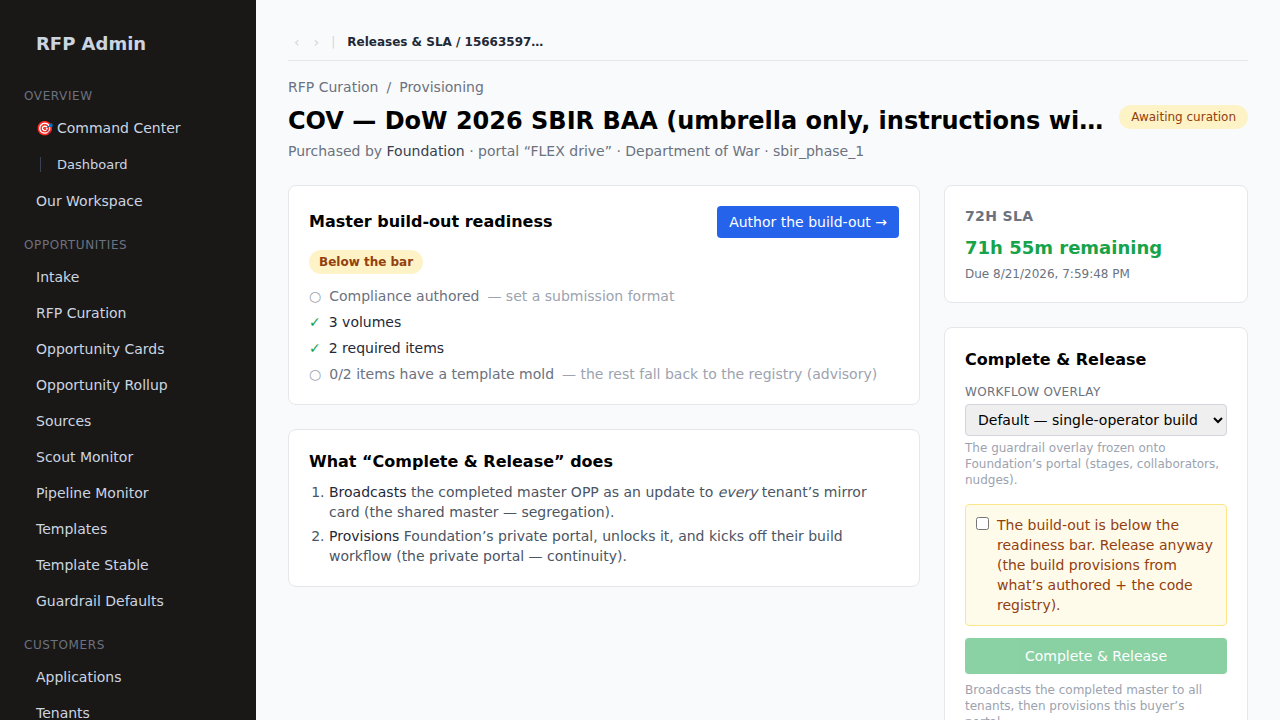
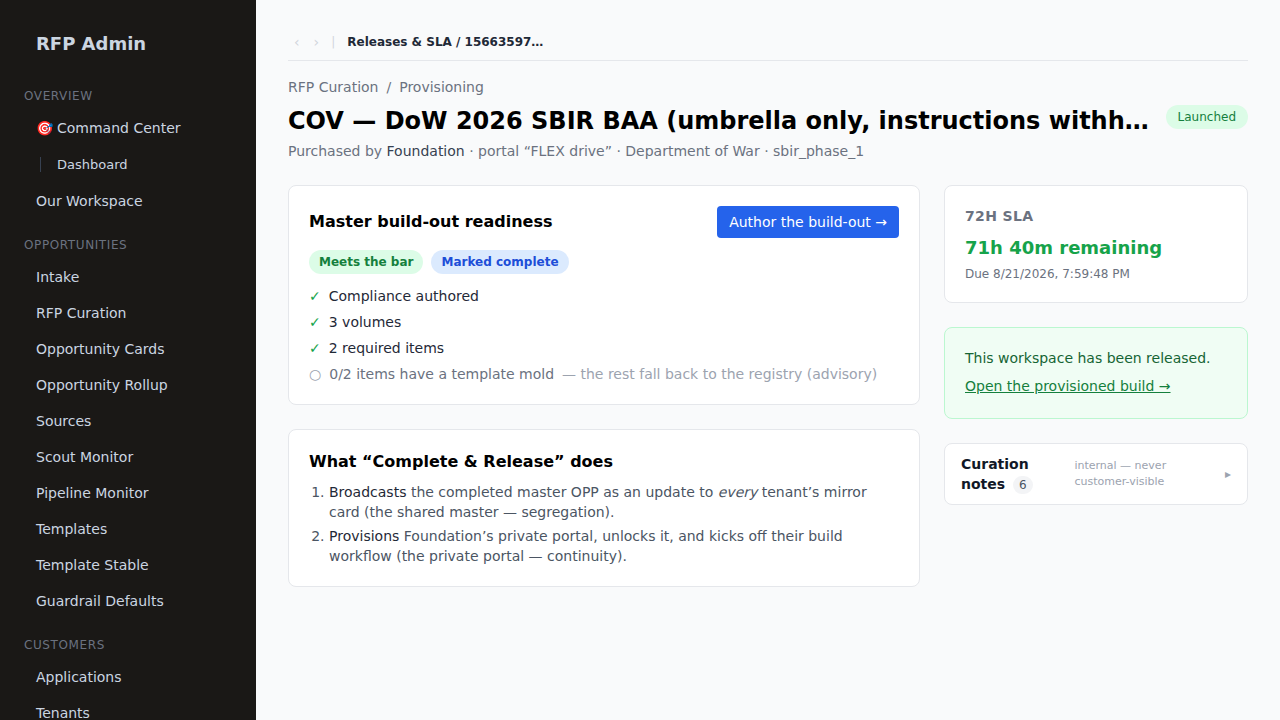
FLEX rules doc + first sweep fixes (readiness · resolver · attach doc types)
docs/MID_WINDOW_RULES.md — the consolidated rules review of the automation,
bridge, buckets and proposal pipeline across the mid-window (post-Spotlight-push,
pre-portal-release): bridge contract B1-B8, bucket rules K1-K5, automation rules
A1-A3, pipeline rules P1-P6, residual-gap register. Stale doc lines corrected
(START_END_FRAMEWORK §3b proposal-ready nudge IS built; watch route docstring
event name).

Proven sweep fixes:
- Build-readiness bar had two blind spots: counted only baseline (topic_id IS
  NULL) rows while the provisioner PREFERS topic overrides, and read only the
  named submission_format column while the push gate accepts the curator's
  custom_variables layer — a topic-scoped or curator-verified build read 'below
  the bar' and forced a spurious confirm (our own drive sol showed it). Now
  scope-agnostic + custom-variables-aware, mirroring resolver + push gate.
- resolveTopicCompliance no longer degrades silently: an errored resolve now
  returns degraded:true and provisionProposalForPortal REFUSES to provision a
  default skeleton off it (the buyer would have received defaults while the
  authored master sat unread).
- rfp-upload attach-to-existing ignored per-file documentTypes and defaulted
  the type to 'source' — caught live when an amendment's announcing document
  stored as a second 'source' and the amendment linked the wrong file. Attach
  now honors per-file type → singular documentType → 'attachment' (never a
  second 'source').
[…]

diff --git a/frontend/e2e/flex-midwindow-drive.spec.ts b/frontend/e2e/flex-midwindow-drive.spec.ts
@@ -37,6 +37,7 @@ let AMENDMENT = '';      // the mid-window amendment
 let DOC_ID = '';         // the attached (announcing) document
 let TOPIC_OPP = '';      // the late topic
 let PROPOSAL = '';       // the released build
+let WINDOW_OPEN = true;  // true = amendment confirmed with NO proposal yet (the replay case)
 
 async function signIn(page: Page, email: string, password: string) {
   await page.goto('/login');
@@ -199,14 +200,14 @@ test('F3 · mid-window revisions: summary · expert note · attachment · volume
   AMENDMENT = (await logA.json()).data.id as string;
   const confirmA = await page.request.post(`/api/admin/rfp-curation/${SOL}/amendments/${AMENDMENT}`, { data: { action: 'confirm' } });
   expect(confirmA.status(), await confirmA.text()).toBe(200);
-  const cb = (await confirmA.json()).data ?? (await (await page.request.get(`/api/admin/rfp-curation/${SOL}/amendments`)).json()).data;
-  // flagged must be zero — no proposals exist in the window.
   const listA = (await (await page.request.get(`/api/admin/rfp-curation/${SOL}/amendments`)).json()).data.amendments as Array<{ id: string; status: string; flagged: number; documentFilename: string | null }>;
   const mine = listA.find((a) => a.id === AMENDMENT)!;
   expect(mine.status).toBe('confirmed');
-  expect(mine.flagged).toBe(0);
-  expect(mine.documentFilename).toBeTruthy();
-  void cb;
+  expect(mine.documentFilename).toBe('Amendment_0003_notice.pdf');
+  // WINDOW SEMANTICS: pre-release (fresh DB) confirm reaches ZERO proposals — the replay at
+  // F6 is the buyer's guarantee. On a resumed drive the portal is already launched, so the
+  // confirm rightly flags the live proposal directly. Both are the contract.
+  WINDOW_OPEN = mine.flagged === 0;
 
   // (e) Curation notes — the internal margin survives push.
   const note = await page.request.post(`/api/admin/rfp-curation/${SOL}/notes`, {
@@ -303,9 +304,19 @@ test('F6 · cockpit Complete & Release provisions the buyer with the amendment R
   const rel = await page.request.post(`/api/admin/provisioning/${PORTAL}/release`, {
     data: { confirm: true },
   });
-  expect(rel.status(), await rel.text()).toBe(200);
-  const rb = (await rel.json()).data;
-  PROPOSAL = rb.proposalId as string;
+  if (rel.status() === 200) {
+    PROPOSAL = ((await rel.json()).data.proposalId as string);
+  } else {
+    // Resumed drive: the portal already launched in a prior pass — adopt its build.
+    expect([409]).toContain(rel.status());
+    const kateCtx = await page.context().browser()!.newContext();
+    const kp = await kateCtx.newPage();
+    await asKate(kp);
+    const list = await kp.request.get(`/api/portal/${SLUG}/portals`);
+    const portals = ((await list.json()).data?.portals ?? []) as Array<Record<string, unknown>>;
+    PROPOSAL = String(portals.find((p) => String(p.id) === PORTAL)?.proposalId ?? '');
+    await kateCtx.close();
+  }
   expect(PROPOSAL).toMatch(/^[0-9a-f-]{36}$/);
 });
 
@@ -319,7 +330,12 @@ test('F7 · kate’s new build carries the replayed amendment + its document; sh
   expect(flagsRes.status(), await flagsRes.text()).toBe(200);
   const flags = (await flagsRes.json()).data.flags as Array<{ flagId: string; amendmentId: string; label: string; documentFilename: string | null; acknowledgedAt: string | null }>;
   const replayed = flags.find((f) => f.amendmentId === AMENDMENT);
-  expect(replayed, 'the mid-window amendment must have been replayed at provision').toBeTruthy();
+  expect(
+    replayed,
+    WINDOW_OPEN
+      ? 'the mid-window amendment must have been REPLAYED at provision'
+      : 'the amendment must have been flagged directly (window already closed on resume)',
+  ).toBeTruthy();
   expect(replayed!.documentFilename).toBeTruthy();
 
   // The announcing document opens (flag-gated signed URL).

diff --git a/frontend/lib/provisioning/readiness.ts b/frontend/lib/provisioning/readiness.ts
@@ -4,9 +4,13 @@
  * Computes whether a master OPP (curated_solicitations) is "fully built out" — the advisory bar the
  * provisioning cockpit shows and the "Mark build-out complete" action gates on (owner decision:
  * advisory + confirm, so `ready=false` doesn't BLOCK release, it just requires an explicit confirm).
- * The bar = compliance authored (a baseline solicitation_compliance row with a submission_format) +
- * >=1 baseline volume + >=1 required item. `itemsWithTemplate` is a soft recommendation (the provision
- * cascade has a code-registry fallback, so a missing mold degrades gracefully — it never blocks).
+ * The bar = compliance authored (a solicitation_compliance row with a submission_format — named
+ * column OR the curator's custom_variables layer, matching the push gate) + >=1 volume + >=1
+ * required item. Scope-agnostic on purpose: the provisioner PREFERS topic overrides
+ * (compliance-resolver), so a fully topic-scoped build satisfies the bar exactly like a baseline
+ * one — counting only `topic_id IS NULL` made a topic-only build read "below the bar" and forced
+ * a spurious confirm. `itemsWithTemplate` is a soft recommendation (the provision cascade has a
+ * code-registry fallback, so a missing mold degrades gracefully — it never blocks).
  *
  * Master tables (solicitation_compliance / solicitation_volumes / volume_required_items / curated_
  * solicitations) are platform/admin-scoped and cross-tenant → read via sqlBypass. camelCase off toCamel.
@@ -40,10 +44,11 @@ export async function getBuildReadiness(solId: string): Promise<BuildReadiness> 
     }>>`
       SELECT
         EXISTS(SELECT 1 FROM solicitation_compliance sc
-               WHERE sc.solicitation_id = ${solId}::uuid AND sc.topic_id IS NULL
-                 AND sc.submission_format IS NOT NULL AND sc.submission_format <> '') AS has_compliance,
+               WHERE sc.solicitation_id = ${solId}::uuid
+                 AND ((sc.submission_format IS NOT NULL AND sc.submission_format <> '')
+                      OR COALESCE(sc.custom_variables->'submission_format'->>'value', '') <> '')) AS has_compliance,
         (SELECT count(*)::int FROM solicitation_volumes sv
-           WHERE sv.solicitation_id = ${solId}::uuid AND sv.topic_id IS NULL) AS volume_count,
+           WHERE sv.solicitation_id = ${solId}::uuid) AS volume_count,
         (SELECT count(*)::int FROM volume_required_items vri
            JOIN solicitation_volumes sv ON sv.id = vri.volume_id
            WHERE sv.solicitation_id = ${solId}::uuid) AS required_item_count,

diff --git a/frontend/app/api/admin/rfp-upload/route.ts b/frontend/app/api/admin/rfp-upload/route.ts
@@ -387,7 +387,6 @@ export async function POST(request: Request) {
   // fileBuffers were pre-computed above (hash + buffer + displayName).
   const documentIds: string[] = [];
   let firstPdfKey: string | null = null;
-  const docType = requestedDocType ?? 'source';
   for (const fb of fileBuffers) {
     const ext = extFromFilename(fb.file.name);
     const safeName = slugSafeName(fb.file.name);
@@ -446,17 +445,23 @@ export async function POST(request: Request) {
 
     try {
       // Document type, in priority order:
-      //   attach-to-existing → the request's documentType
+      //   attach-to-existing → the PER-FILE type, else the request's documentType, else
+      //                        'attachment' (NEVER 'source' — the original upload owns the
+      //                        source role, and a second "source" skews the full_text
+      //                        recombine ordering + the provenance story).
       //   new solicitation   → the PER-FILE type the admin chose on the form, else the first
       //                        PDF is the 'source' (umbrella) and the rest are 'attachment'.
       // The per-file choice matters: a solicitation states its rules across files, and a
       // supplementary PDF labelled 'instructions' is the one the umbrella BAA defers its page
       // limit TO. Labelling it correctly is what lets the provenance audit tell "the rule is
       // elsewhere and elsewhere is nowhere" from "the rule is elsewhere and here it is".
+      // (Caught live by the mid-window drive: an attach sending documentTypes ['amendment']
+      // was silently stored as 'source', so the amendment linked the wrong file.)
       const perFileType = fileTypes[fb.index];
+      const perFileValid = !!perFileType && (VALID_DOCUMENT_TYPES as readonly string[]).includes(perFileType);
       const effectiveType = existingSolId
-        ? docType
-        : (perFileType && (VALID_DOCUMENT_TYPES as readonly string[]).includes(perFileType))
+        ? (perFileValid ? perFileType : (requestedDocType ?? 'attachment'))
+        : perFileValid
           ? perFileType
           : (firstPdfKey === storageKey ? 'source' : 'attachment');
       const isPrimary = requestedIsPrimary && firstPdfKey === storageKey;

diff --git a/frontend/lib/provision-proposal.ts b/frontend/lib/provision-proposal.ts
@@ -66,6 +66,13 @@ export async function provisionProposalForPortal(opts: {
   const proposalTitle = label && label !== 'primary' ? `${baseTitle} [${label}]` : baseTitle;
 
   const resolved = await resolveTopicCompliance(opportunityId);
+  if (resolved.degraded) {
+    // A degraded resolve means the buyer would be provisioned a DEFAULT skeleton while the
+    // authored master sits unread — a silent divergence worse than a failed release. Refuse
+    // loudly; the release path surfaces the error and the admin retries.
+    console.error('[provision-proposal] compliance resolution DEGRADED for', opportunityId, '— refusing to provision a default skeleton');
+    return { error: 'Compliance resolution failed (degraded to defaults) — retry the release; the master was not read.' };
+  }
   const requiredItems: Array<{ itemNumber: number; itemName: string; itemType: string; pageLimit: number | null; volumeName: string | null; volumeNumber: number | null; templateId: string | null; expertNotes: string | null }> = [];
   let gi = 0;
   for (const vol of resolved.volumes) {

diff --git a/frontend/app/api/admin/opportunities/[oppId]/watch/route.ts b/frontend/app/api/admin/opportunities/[oppId]/watch/route.ts
@@ -3,9 +3,10 @@
  * DELETE /api/admin/opportunities/[oppId]/watch  → disarm it
  *
  * The admin "pin for updates" (RANK-8, mig 181 opportunities.update_watch). Arming a MASTER opp makes
- * a subsequent re-push (an amendment/change → newer bridge version) fan an elevated
- * capture:opportunity.update_available notification to EVERY tenant holding its mirror card — pre-purchase,
- * before any proposal exists (today's amendment engine only reaches opps that already have a proposal).
+ * a subsequent re-publish (any mid-window master edit or amendment confirm → newer bridge version,
+ * docs/MID_WINDOW_RULES.md) fan an elevated capture:opportunity.updated notification to EVERY tenant
+ * holding its mirror card — pre-purchase, before any proposal exists (amendments additionally REPLAY
+ * onto the proposal at provision).
  * rfp_admin+; opportunities is the platform catalog (no tenant_id, RLS-off) so writes use sqlBypass.
  */
 import { NextResponse } from 'next/server';

diff --git a/frontend/lib/compliance-resolver.ts b/frontend/lib/compliance-resolver.ts
@@ -11,6 +11,10 @@ export interface ResolvedCompliance {
     volumeNumber: number;
     items: Array<Record<string, unknown>>;
   }>;
+  /** Set when resolution ERRORED and fell back to SYSTEM_DEFAULTS + no volumes. A provision
+   *  built off a degraded resolve is a default skeleton, not the authored master — callers
+   *  must surface it (the silent fallback used to be indistinguishable from an empty build). */
+  degraded?: boolean;
 }
 
 /**
@@ -86,7 +90,7 @@ export async function resolveTopicCompliance(topicId: string): Promise<ResolvedC
   return { compliance, volumes };
   } catch (err) {
     console.error('[compliance-resolver] resolveTopicCompliance failed:', err);
-    return { compliance: { ...SYSTEM_DEFAULTS }, volumes: [] };
+    return { compliance: { ...SYSTEM_DEFAULTS }, volumes: [], degraded: true };
   }
 }
 

diff --git a/docs/MID_WINDOW_RULES.md b/docs/MID_WINDOW_RULES.md
@@ -1,0 +1,83 @@
+# MID_WINDOW_RULES.md — the OPP card between its two releases
+
+**Status:** canonical rules review (2026-08-18) of the automation, the bridge, the buckets, and
+the proposal pipeline as they govern the **mid-window**: after Release 1 (`solicitation.push` —
+the OPP is live on every tenant's Spotlight mirror) and before Release 2 for a given buyer
+(`provisionAndReleasePortal` — their private build). Verified against a 3-agent code recon +
+the live 7-step drive `frontend/e2e/flex-midwindow-drive.spec.ts` (7/7). Companion to
+docs/MASTER_MIRROR_OPP_DESIGN.md (lifecycle design) and docs/START_END_FRAMEWORK.md §3 (bridge map).
+
+---
+
+## 0. The one rule
+
+**The master stays fully editable after push, and every edit that changes what a customer sees
+must re-publish the bridge.** Editability without propagation is silent divergence (the admin
+"updates" an OPP no tenant ever sees updated); propagation without editability is a frozen
+catalog. The window has both, and one primitive carries the second half:
+`republishIfReleased` → new `opportunity_bridge` version → `applyToTenant` per tenant —
+which automatically brings **rescore** (sync fallback + `capture:card.applied` → pipeline),
+**`pin_update_available`** for pinned holders, and the **watched-opp holder notification**
+(RANK-8). A never-released opp is a structural no-op, so pre-push edits stay private.
+
+---
+
+## 1. Bridge rules (as built + as now wired)
+
+| Rule | Where enforced |
+|---|---|
+| B1 · Forward-only: `opportunity_bridge` is `SELECT, INSERT` only — no row ever mutates | mig 094:45 grant |
+| B2 · Full-snapshot versions: every publish writes the WHOLE card JSONB at `max(version)+1` (race-safe retry loop) | `opportunity-bridge.ts` publishToBridge |
+| B3 · Forward-only apply: a mirror card only advances (`EXCLUDED.bridge_version > current`); stale applies are silent no-ops with no cursor bump and no rescore | applyToTenant |
+| B4 · Safe-refresh split: an apply touches ONLY master-derived columns (`card`, `bridge_version`, `lifecycle_status`, `submission_stage`, `updated_at`, conditional `pin_update_available`). Tenant-owned state — pins, pinned_docs, pursuit, archive, bucket scores, nudge watermarks — is never clobbered | applyToTenant `DO UPDATE SET` list |
+| B5 · **Every card-visible master edit republishes** (NEW): summary + expert note, compliance (baseline, topic override set/clear, preset), volumes + required items (all 5 tools), topic title/description, attach-to-existing, Ingest Studio LAND, amendment confirm, and the explicit Broadcast button — all call `republishSolicitationCards` (best-effort: a propagation failure never fails the admin's edit) | `lib/curation/republish.ts` + the wired call sites |
+| B6 · **Late-topic release** (NEW): a topic added after push has no bridge version, so republish can never reach it. `activateLateTopicIfReady` releases it — keyed on the BRIDGE (not `is_active`), mirroring push's W2 activation write — the moment it is date-complete. No close date → parked (`needs_close_date`), invisible to customers (the mig-128 date guard extends to late additions). Wired into add_topic, bulk_add_topics, topic-file drop, topic update, and the lifecycle close-date change | `lib/curation/republish.ts` |
+| B7 · Backflow stays navigational-only: nothing in the window carries tenant content up. The up-signals remain the purchase ToDo, notifications, and shadow-descent audit | docs/MASTER_MIRROR_OPP_DESIGN.md §4 |
+| B8 · The card stays THIN: volumes/items/molds never ride the snapshot — only `complianceSummary` scalars (+ `provisionReady`). Structure is delivered at provision, not on the card | buildCardSnapshot |
+
+## 2. Bucket / ranking rules
+
+| Rule | Note |
+|---|---|
+| K1 · Scoring is tenant-side + event-driven: every applied bridge version rescores (sync `scoreCardForTenant` fallback + async `OnCardApplied` → `rescore.py`). B5 therefore means **mid-window summary/title edits genuinely re-rank** — they are scoring inputs | verified live: F3→F4 |
+| K2 · Bucket cap (6) is framework-hard and enforced atomically in the INSERT; `can_manage_buckets` designees + tenant_admin author buckets | mig 181, RANKING_SPINE |
+| K3 · Non-open cards score only into `includeClosed` buckets; scores clamp [0,100] (mig 180 floor) | all three writers |
+| K4 · `update_watch` is a decoration, not a trigger: it elevates notifications on fan-outs SOMETHING ELSE caused. With B5, watching an OPP now means hearing about every mid-window edit — which is what the admin pinning intended | RANK-8 |
+| K5 · The start-nudge sweep reads live `opportunities.close_date`; B5/B6 keep the card's `closeDate` in step so the nudge window and the customer-visible date can no longer disagree | lifecycle_scheduler |
+
+## 3. Automation / event rules
+
+| Rule | Note |
+|---|---|
+| A1 · Trigger events pair START/END; the END carries the payload the processor matches. Audit events are `single`. (Held by every new emitter this cycle: `topic.released`, `solicitation.broadcast`, `curation_note.added`, `solicitation.expert_notes_updated` are audit-singles; no new triggers were introduced) | docs/EVENT_CONTRACT.md |
+| A2 · Propagation tails are best-effort BY CONTRACT: they run after the business write committed, never throw (whole-body fenced), and are re-drivable (reconcile sweep, Broadcast button). The unit suite locks this (`__tests__/curation-republish.test.ts`) | lib/curation/republish.ts |
+| A3 · Automation may never publish what a human hasn't founded: the Ingest Studio land gate (auto-land refuses blockers) and the deliberately-human portal release are unchanged by this pass. The Broadcast button and auto-republish only re-deliver already-landed master state | INGEST_STUDIO_DESIGN §never-auto |
+
+## 4. Proposal-pipeline rules (the window's two ends)
+
+| Rule | Note |
+|---|---|
+| P1 · **Fresh-at-release, universally:** provisioning reads compliance (topic-resolved), volumes + required items, molds (`document_templates.canvas_document`), cost forms, and required docs LIVE at release time. Nothing is snapshotted at purchase — every mid-window revision lands in the released portal (proven: Vol 3 added mid-window appeared in the provisioned build) | provision-proposal.ts |
+| P2 · **Amendment replay** (NEW): `confirmAmendment` fans flags to existing proposals AND republishes the mirror (pre-purchase reach); `replayConfirmedAmendments` runs at provision so a buyer whose amendment landed mid-window opens their portal with the flag + bell already present. The window can no longer swallow an amendment | lib/amendments.ts + release-portal.ts |
+| P3 · **Amendments carry their document** (mig 190): `solicitation_amendments.document_id` → admin links the announcing file when logging; tenants open it via a flag-gated signed URL (`…/amendments/[a]/document` — the flag IS the grant; no generic read into the admin document store) | verified live: F7 |
+| P4 · Post-release (portal live), the channels narrow by design: amendments (formal, acknowledgeable) + card refresh (informational). Master compliance/volume/mold edits do NOT rewrite a live build — structural change reaches a released proposal only as an amendment a human acts on | recon C |
+| P5 · Molds: live-read at provision (mid-window edits free); the template-stable lane fans only on explicit Push (`update_available`) and is not solicitation-linked — per-OPP template curation is `volume_required_items.template_id`. `collaboration` is now a first-class `template_type` for collaboration-product molds | TEMPLATE_BRIDGE_DESIGN |
+| P6 · **Curation notes** (mig 190): the master card's internal margin — append-only (grant-level: no UPDATE/DELETE), platform-scope, never customer-visible, mounted in the workspace AND the provisioning cockpit so the 72h-window conversation lives on the record. Customer-facing text remains: expert note (rides the card) + amendments (formal) | curation_notes |
+
+## 5. Residual gaps (tracked, deliberate, or follow-on)
+
+1. **Readiness bar is baseline-blind**: `getBuildReadiness` counts `topic_id IS NULL` rows while the
+   provisioner prefers topic overrides — a topic-only build reads "below the bar" and needs
+   `confirm:true`. (FLEX-sweep item.)
+2. **`resolveTopicCompliance` degrades silently** to SYSTEM_DEFAULTS + a lone Technical Volume on
+   error — the release response should surface that. (FLEX-sweep item.)
+3. **`pushed_to_pipeline` stays terminal** (no un-push). Deliberate: retraction of a
+   customer-visible OPP is a lifecycle `close`/`archive`, not a status rewind.
+4. **`build_complete` never un-sets** — provisionReady can only go true. Acceptable while release
+   is human-gated; revisit if auto-release ever lands.
+5. **`amendment_monitor` agent output has no writer** into `solicitation_amendments`
+   (source `'amendment_monitor'` is reserved, unused) — amendments are hand-logged today.
+6. Stale doc lines corrected this cycle: START_END_FRAMEWORK §3b "proposal-ready nudge not built"
+   (it is — mig 182 + cockpit) and the watch route docstring's event name
+   (`capture:opportunity.updated`, not `update_available`). MASTER_MIRROR's in-tx `autoScoreCard`
+   references were already struck by its as-built header.

diff --git a/docs/START_END_FRAMEWORK.md b/docs/START_END_FRAMEWORK.md
@@ -228,8 +228,11 @@ latest bridge head (wired at tenant-create, application-accept, and a manual bac
 | On the bridge? | **Yes** — the fan-out *is* Release 1 | **No** — deliberately off the bridge |
 
 They are decoupled: Release 2 can precede or follow purchase; a later buyer reuses the already-built skeleton
-(fast release, no 72h). ⚠ The “proposal-ready” nudge back to the mirror card is **not built**
-(`MASTER_MIRROR_OPP_DESIGN.md:131-137`).
+(fast release, no 72h). The “proposal-ready” nudge back to the mirror card is **BUILT** (mig 182
+`build_complete` + `completeBuildOut` → bridge `updated` re-publish, `provisionReady` on the card —
+the provisioning cockpit’s Complete & Release; MASTER_MIRROR_OPP_DESIGN §2). Mid-window master edits
+(summary · compliance · volumes · attachments · amendments · late topics) also re-publish now —
+canonical rules: **docs/MID_WINDOW_RULES.md**.
 
 ### 3c. BACKWARD (mirror → master) — the only up-signals
 Content never flows up. Two things do:
